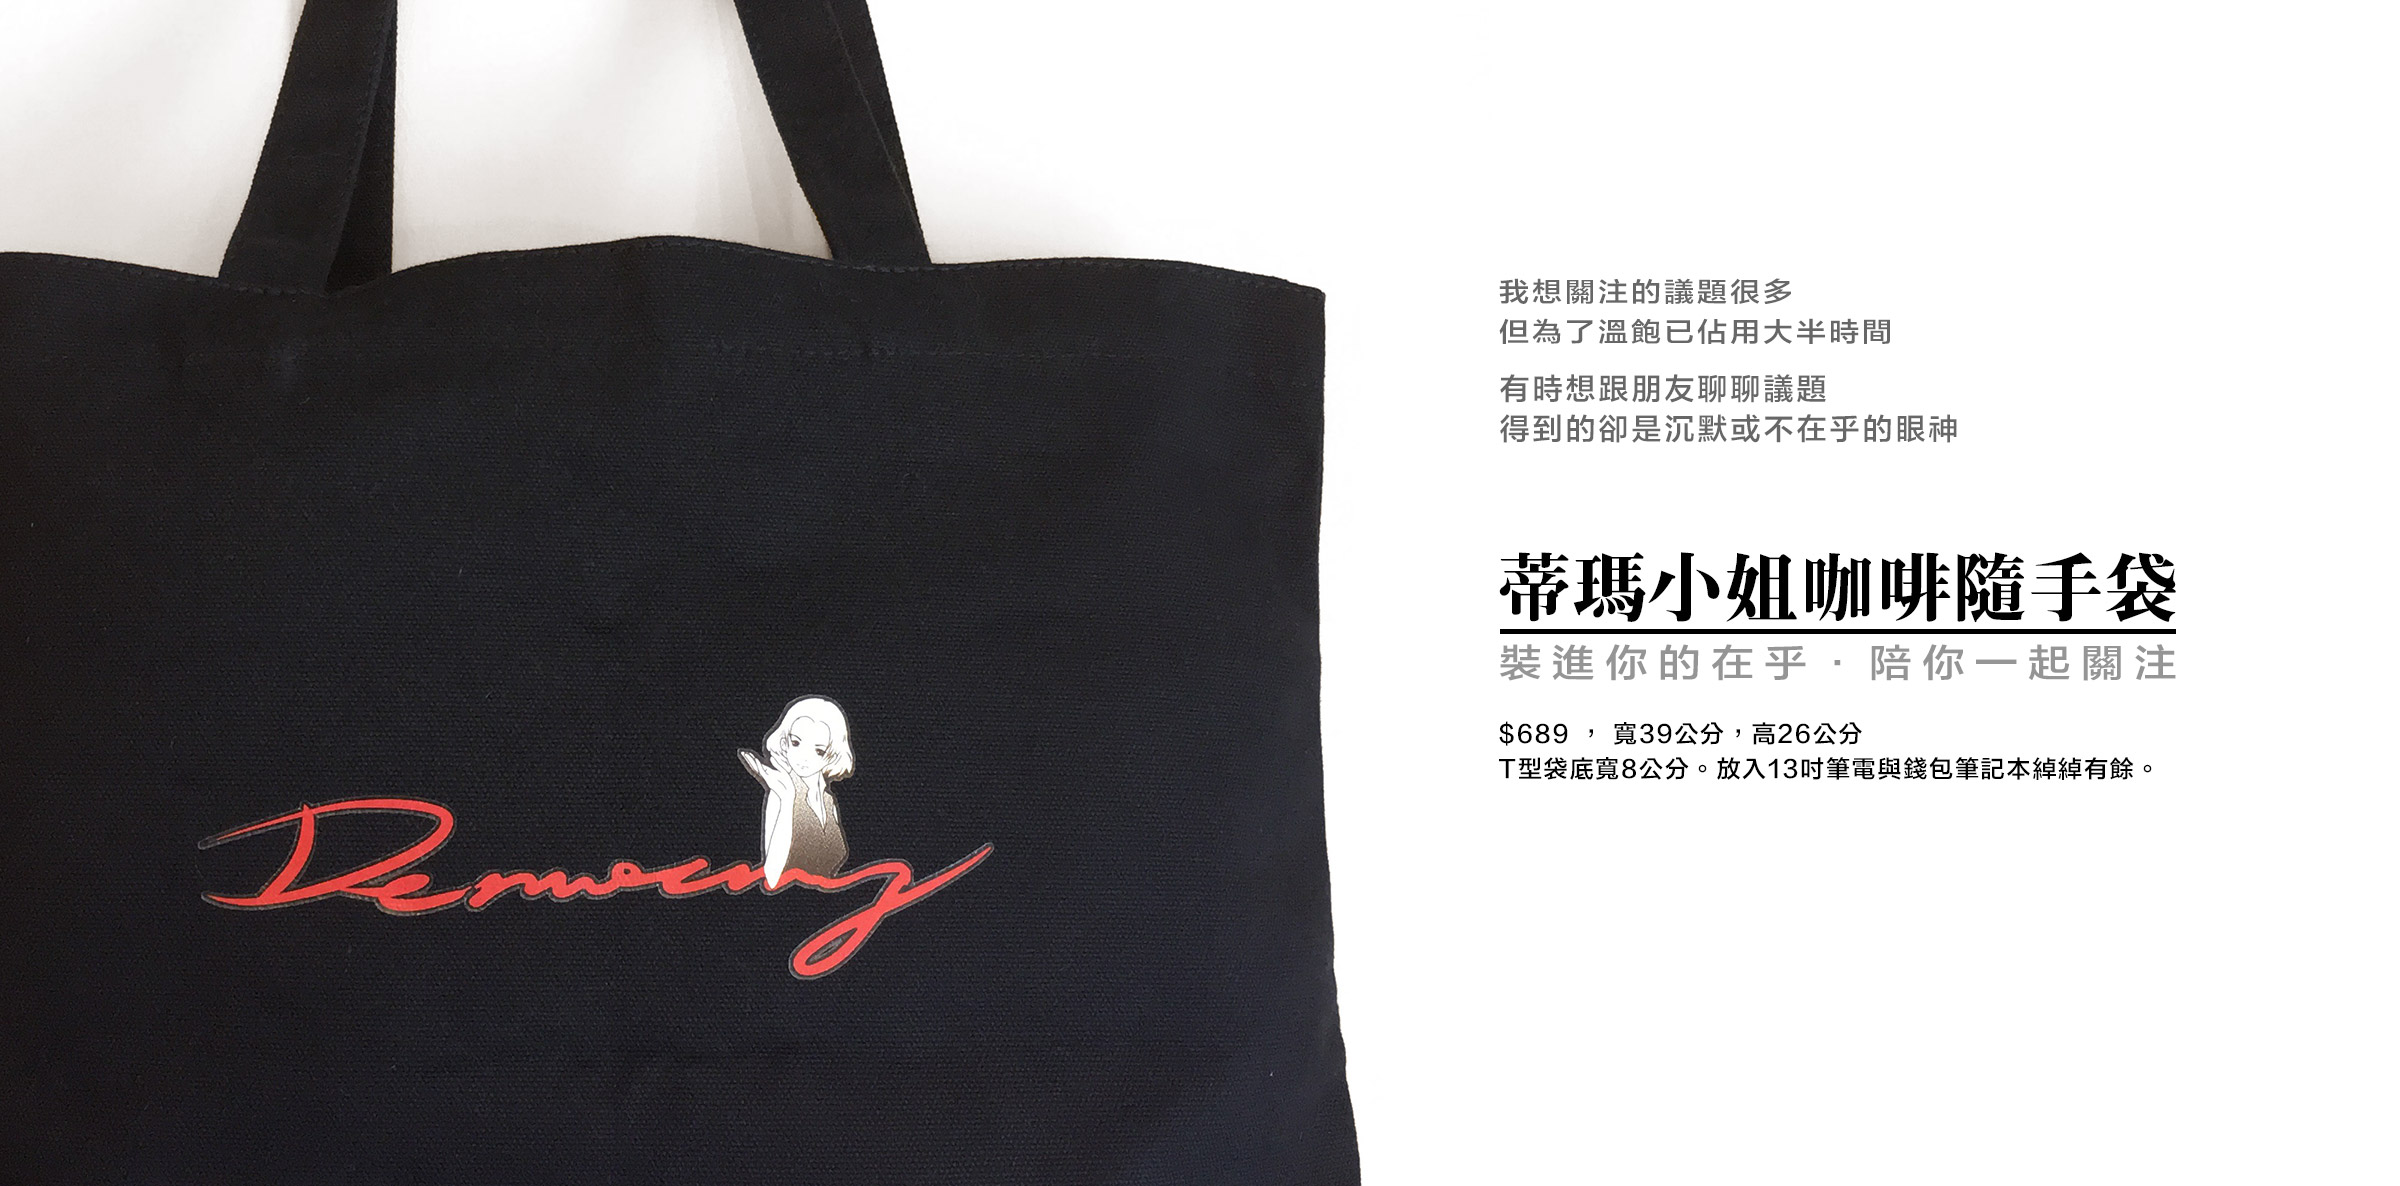
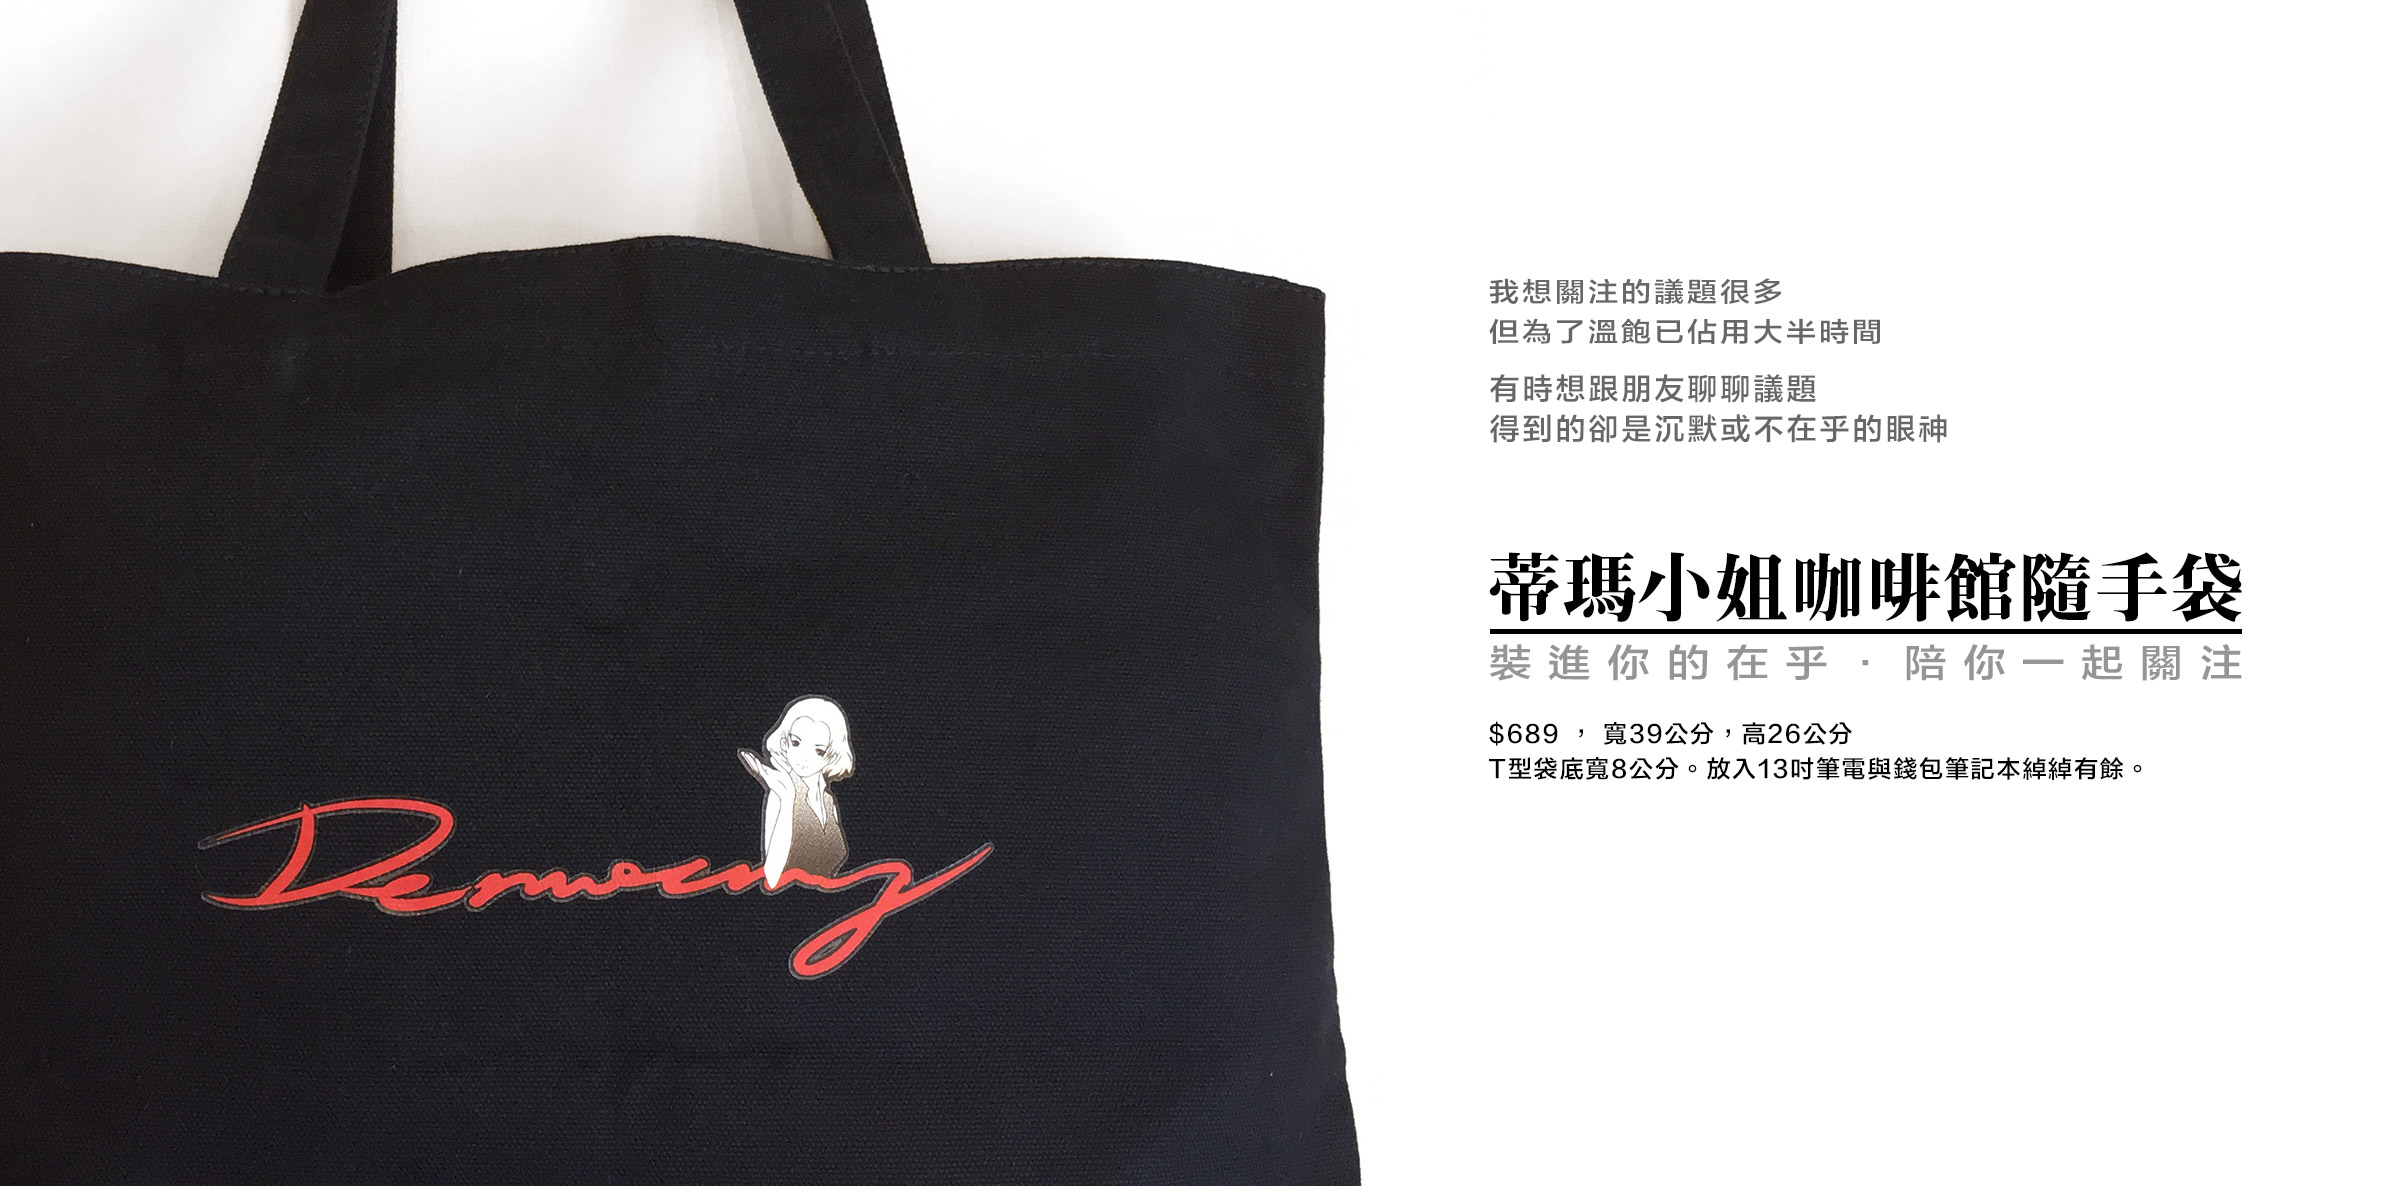
圖文更新
圖文更新

Changed region(s): [[0.625, 0.468, 0.9375, 0.6551], [0.625, 0.2184, 0.8125, 0.3744]]

diff --git a/bag2017/index.html b/bag2017/index.html
@@ -2,13 +2,13 @@
 <html>
 	<head>
 		<meta charset="UTF-8">
-		<title>蒂瑪小姐咖啡隨手袋預購中｜裝進你的在乎，陪你一起關注| 國會調查兵團</title>
+		<title>蒂瑪小姐咖啡館隨手袋預購中｜裝進你的在乎，陪你一起關注| 國會調查兵團</title>
 		<link rel="stylesheet" href="css/style.css">
 		<script src="http://code.jquery.com/jquery-1.10.2.js"></script>
 		<meta name="viewport" content="width=device-width; initial-scale=1.0; max-scale=1.0; user-scalabe=0;">
-		<meta property="og:title" content="蒂瑪小姐咖啡隨手袋預購中｜裝進你的在乎，陪你一起關注| 國會調查兵團">
-		<meta property="og:description" content="______內容要再補">
-		<meta property="og:image" content="http://event.cic.tw/book2015/images/bag.jpg">
+		<meta property="og:title" content="蒂瑪小姐咖啡館隨手袋預購中｜裝進你的在乎，陪你一起關注| 國會調查兵團">
+		<meta property="og:description" content="我想關注的議題很多，但為了溫飽已佔用大半時間...有時想跟朋友聊聊議題，得到的卻是沉默或不在乎的眼神...">
+		<meta property="og:image" content="http://event.cic.tw/bag2017/images/bag.jpg">
 		<script type="text/javascript">
 		// 收缩展开效果
 		$(document).ready(function(){
@@ -31,14 +31,14 @@
 		<div class="wrap">
 			<div class="edm-block">
 				<div class="book-cover">
-				<header><h1>蒂瑪小姐咖啡隨手袋預購中｜裝進你的在乎陪你一起關注</h1></header>
+				<header><h1>蒂瑪小姐咖啡館隨手袋預購中｜裝進你的在乎陪你一起關注</h1></header>
 				<p>democracy de cafe</p>
 			</div>
 			<div class="book-info">
 				<div class="info-01">
 					<p class="info-p ih">我想關注的議題很多<br>但為了溫飽已佔用大半時間</p>
 					<p class="info-p ih">有時想跟朋友聊聊議題<br>得到的卻是沉默或不在乎的眼神</p>
-					<h2 class="ih">蒂瑪小姐咖啡隨手袋</h2>
+					<h2 class="ih">蒂瑪小姐咖啡館隨手袋預購中</h2>
 					<h3 class="ih">裝進你的在乎，陪你一起關注</h3>
 					<p class="note ih">$689 ， 寬39公分，高26公分，T型袋底寬8公分。放入13吋筆電與錢包筆記本綽綽有餘。</p>
 					<a href="https://cic.backme.tw/cashflow/checkout?locale=zh-TW&project_id=347&reward_id=2461" class="btn btn01" target="_blank">立刻購買</a>
@@ -49,15 +49,19 @@
 			<h2>你們是誰？</h2>
 			<h3>我們是「國會調查兵團」</h3>
 			<div class="content-txt">
-				<p>在318之後，我們一直在思考，大部分的人為了忙於工作，能夠用在關心生活議題的時間太有限了，而一談到政治，大多數的反射動作就是「政治很髒不要碰」，或是「xx歸xx，政治歸政治」。對很多人來說，政治看起來很遙遠，跟自己沒有太大的關係。也常常覺得那些滿口議題的人似乎都是政治狂，以後大概都是要出來選的吧？但實際上我們生活的種種，若仔細去追根究底不斷的問為什麼，會發現他背後的根源其實都跟政治有關。
-
+				<p>在318之後，我們一直在思考，大部分的人為了忙於工作，能夠用在關心生活議題的時間太有限了，而一談到政治，大多數的反射動作就是「政治很髒不要碰」，或是「xx歸xx，政治歸政治」。對很多人來說，政治看起來很遙遠，跟自己沒有太大的關係。也常常覺得那些滿口議題的人似乎都是政治狂，以後大概都是要出來選的吧？但實際上我們生活的種種，若仔細去追根究底不斷的問為什麼，會發現他背後的根源其實都跟政治有關。</p>
+				<p>
 				台灣長期的教育氛圍總叫我們不要理政治，但這其實跟民主政治所主張的公民意識是背道而馳的。不過現況就是如此，於是我們陷入苦思：到底該怎麼做，才有辦法讓更多人可以用更簡單的方式瞭解社會議題，體會生活即是政治，進而關心政治呢？
 				</p>
-				<p>立法委員是我們一票一票選出的民意代表，既然生活的所有事物背後都跟法律有關，而法律是由立法院審查訂定的，那從就從監督立委做起吧？我們想嘗試鼓勵大家一起去看立法院議事影片，並彙集大家挑出覺得荒謬的打點。於是我們做了「國會調查兵團」網站，讓一般民眾可以在這個網站上直接投稿立委的表現。我們希望透過這個方式，鼓勵大家可以去看立法院議事影片紀錄，把看到的立委表現記錄在這個網站，讓更多人看見我們立法院裡面的真實樣貌。
+				<p>立法委員是我們一票一票選出的民意代表，既然生活的所有事物背後都跟法律有關，而法律是由立法院審查訂定的，那從就從監督立委做起吧？</p>
+				<p>
+				我們想嘗試鼓勵大家一起去看立法院議事影片，並彙集大家挑出覺得荒謬的打點。於是我們做了「國會調查兵團」網站，讓一般民眾可以在這個網站上直接投稿立委的表現。我們希望透過這個方式，鼓勵大家可以去看立法院議事影片紀錄，把看到的立委表現記錄在這個網站，讓更多人看見我們立法院裡面的真實樣貌。
 				</p>
-				<p>但人的時間真的很有限，忙於工作忙於人際關係又或是忙著跟家人相處，一天能夠花15分鐘關心一下政治，已經是極限。更不要說立法院議事影片又臭又長又無聊。這樣的門檻還是太高了。我們又問問自己，有沒有可以更快吸收議題現況的方式呢？我們進一步做更多的嘗試，像是經營「公民廟口-立委在做天在看」粉專，傳播經過剪輯的立委質詢影片，試圖降低理解質詢內容的難度，讓更多人理解觀看立委質詢表現的重要性。我們成立了「杜老爺小酒館」，試圖用漫畫的方式，表達對時事的看法。我們開了「蒂瑪小姐咖啡館」粉專，試圖以對話小說的方式對社會議題進行思辨。</p>
+				<p>但人的時間真的很有限，忙於工作忙於人際關係又或是忙著跟家人相處，一天能夠花15分鐘關心一下政治，已經是極限。更不要說立法院議事影片又臭又長又無聊。這樣的門檻還是太高了。</p>
+				<p>我們再次問問自己，有沒有可以更快吸收議題現況的方式呢？我們進一步做更多的嘗試，像是經營「公民廟口-立委在做天在看」粉專，傳播經過剪輯的立委質詢影片，試圖降低理解質詢內容的難度，讓更多人理解觀看立委質詢表現的重要性。我們成立了「杜老爺小酒館」，試圖用漫畫的方式，表達對時事的看法。我們開了「蒂瑪小姐咖啡館」粉專，試圖以對話小說的方式對社會議題進行思辨。</p>
 				<p>在這個過程中，我們深刻的體會到我們的教育從來沒有告訴我們，身為一個公民，應該了解什麼，應該思辨什麼。從威權邁向民主的過程，在表面上看起來太過和平了，這一切似乎來得太容易太理所當然，於是我們不曾意識到，戒嚴結束只是不到30年以前的事情。而這樣的歷史背景，也導致台灣教育長期以來並不注重公民意識的培養。這在過去的威權時代，可以理解。</p>
-				<p>但展望未來，如果我們都認同民主的價值，那是否我們得捫心自問，我們有足夠的公民意識讓我們的民主走得長久嗎？所以我們努力去了解「什麼是民主」，並依此展開對民主的想像，走出屬於我們這個時代的公民行動。我們是「國會調查兵團」，我們相信政治討論不是名嘴、立委的專利，而是生活的一部分。我們認為監督立委、監督政府是每一個人都有能力做的事，而這一切我們選擇從自己做起，我們相信只要我們願意行動，每個人都有能力讓這個社會變得更好。</p>
+				<p>但展望未來，如果我們都認同民主的價值，那是否我們得捫心自問，我們有足夠的公民意識讓我們的民主走得長久嗎？所以我們努力去了解「什麼是民主」，並依此展開對民主的想像，走出屬於我們這個時代的公民行動。</p>
+				<p>我們是「國會調查兵團」，我們相信政治討論不是名嘴、立委的專利，而是生活的一部分。我們認為監督立委、監督政府是每一個人都有能力做的事，而這一切我們選擇從自己做起，我們相信只要我們願意行動，每個人都有能力讓這個社會變得更好。</p>
 			</div>
 			<div class="action-btn">
 				<a href="http://event.cic.tw/cic-intro/index.html#intro-main" class="btn btn01" target="_blank">我想了解兵團做過什麼事</a>
@@ -70,7 +74,8 @@
 				<div class="qa-txt">
 					<p>持續投入政治行動除了需要熱情，也需要經濟支撐。2014/9~2015/10這段時間，「國會調查兵團」用純志工模式完成了一個網站（cic.tw）、每天盯ivod並剪輯了152支立委質詢影片、產出了破百篇的文章、產出八十來篇對時事嘲諷的圖文。針對食安修法找了國民兩黨立委做了食安訪談，並整理逐字稿紀錄公開於網路上。以蒂瑪小姐咖啡館粉專為主辦舉辦了5場的現場D day活動。
 					</p>
-					<p>我們對發展公民可參與的政治行動、推廣降低政治參與門檻有著極大的熱情，但人終歸需要生活。過去，蒂瑪小姐咖啡館曾經於2016年1月出版實體書，當時我們向公民覺醒聯盟提出「國會調查兵團立委選前密集監督計畫」專案企劃，以支應國會調查兵團計畫一年的人事與軟硬體費用。長期來看，我們也必須要持續透過銷售以取得自我商轉的可能。我們感謝公民覺醒聯盟願意資助國會調查兵團計畫，但未來我們必須要靠自己的能力活下去，才能讓兵團計畫持續前進。</p>
+					<p>我們對發展公民可參與的政治行動、推廣降低政治參與門檻有著極大的熱情，但人終歸需要生活。過去，蒂瑪小姐咖啡館曾經於2016年1月出版實體書，當時我們向公民覺醒聯盟提出「國會調查兵團立委選前密集監督計畫」專案企劃，以支應國會調查兵團計畫一年的人事與軟硬體費用。</p>
+					<p>長期來看，我們也必須要持續透過銷售以取得自我商轉的可能。我們感謝公民覺醒聯盟願意資助國會調查兵團計畫，但未來我們必須要靠自己的能力活下去，才能讓兵團計畫持續前進。</p>
 					<p>「蒂瑪小姐咖啡館」要出周邊商品了。如果你願意支持我們繼續寫下去，如果您也認同自己的公民意識自己救，買一個隨手袋，讓我們可以陪伴大家一起監督國會，繼續走下去。
 					</p>
 				</div>
@@ -96,7 +101,8 @@
 			</div>
 			<div class="qa">
 				<h2>你們是非營利組織嗎？</h2>
-				<div class="qa-txt"><p>不是，我們沒有去登記非營利組織（人民團體）。因為申請登記人民團體有許多的限制，像是發起成員必須要30人以上，全國性協會發起成員必須要有來自7個以上縣市的人，必須要召開會員大會選出理事監事等等，這些都不是兵團目前運作的人員所能夠負荷與處理的。因此稅務的部份我們以另外登記工作室的方式處理。所有購買行為我們都會開發票。我們希望以自營自足、社會企業的方式讓「國會調查兵團」計畫可以持續進行。</p></div>
+				<div class="qa-txt"><p>不是，我們沒有去登記非營利組織（人民團體）。因為申請登記人民團體有許多的限制，像是發起成員必須要30人以上，全國性協會發起成員必須要有來自7個以上縣市的人，必須要召開會員大會選出理事監事等等，這些都不是兵團目前運作的人員所能夠負荷與處理的。</p>
+				<p>因此稅務的部份我們以另外登記工作室的方式處理。所有購買行為我們都會開發票。我們希望以自營自足、社會企業的方式讓「國會調查兵團」計畫可以持續進行。</p></div>
 			</div>
 	</div>
 <footer class="footer">

diff --git a/bag2017/css/style.css b/bag2017/css/style.css
@@ -114,6 +114,7 @@ a{
 	font-size: 18px;
 	padding: 50px 20%;
 	clear: both;
+	text-align: justify;
 }
 .content-02{
 	background: #e4e1df;
@@ -226,6 +227,8 @@ ul.book-list{
 	margin-right: -3em;
 	font-size: 1em;
 }
+
+.btn{font-size: 1em;}
 .content-01,.content-02{
 	font-size: 16px;
 }
@@ -251,29 +254,11 @@ ul.book-list{
 
 
 @media (max-width: 480px){
-
-
-.content-01,.content-02{
-	font-size: 14px;
+.info-01 .btn{
+	bottom: 2%;
 }
 
-.content-01 h2,.content-02 h2{
-	font-size: 21px;
-}
-
-.content-01 h3{
-	font-size: 17px;
-}
 .footer{
 	font-size: 12px;
-}
-}
-
-
-@media (max-width: 390px){
-
-.book-info{
-	font-size: 13px;
-	padding-top: 213%;
 }
 }
